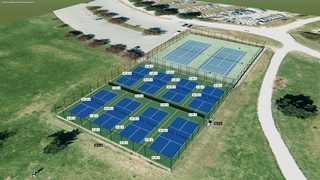
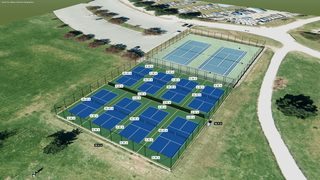
3d: the space between the two rows is measured to the middle fence: 8.2 ft from each baseline back to the fence
Claude-Session: https://claude.ai/code/session_01XZrTSL3wJyeVVwxpMARMFP

diff --git a/public/3d/index.html b/public/3d/index.html
@@ -504,12 +504,12 @@ xs.push(PAD_W / 2); zs.push(PAD_L / 2);
 const chunkW = courts.map((c) => label('', new THREE.Vector3(c.x, TOP, c.z > 0 ? PAD_L / 2 - 1 : -PAD_L / 2 + 1), { court: true }));
 const chunkL = courts.map((c) => label('', new THREE.Vector3(c.x - BAY_W / 2 + 1, TOP, c.z), { court: true }));
 // the spacing between neighbouring courts: sideline to sideline across each row (toward the outer fence, clear of the
-// chunk labels), and baseline to baseline between the two rows (down each column)
+// chunk labels), and from each row's baseline back to the middle fence (down each column)
 for (let r = 0; r < ROWS; r++) for (let c = 0; c < COLS - 1; c++) {
   const a = courts[r * COLS + c], b = courts[r * COLS + c + 1];
   chain('x', [a.x + CW / 2, b.x - CW / 2], a.z + Math.sign(a.z) * 4.5, { court: true, prio: 0 });
 }
-for (let c = 0; c < COLS; c++) chain('z', [courts[c].z + CL / 2, courts[COLS + c].z - CL / 2], courts[c].x, { court: true, prio: 0 });
+for (let c = 0; c < COLS; c++) chain('z', [courts[c].z + CL / 2, 0, courts[COLS + c].z - CL / 2], courts[c].x, { court: true, prio: 0 });
 // the whole place
 chain('x', [-PAD_W / 2, PAD_W / 2], PAD_L / 2 + 2.6, { cls: 'total' });
 chain('z', [-PAD_L / 2, PAD_L / 2], PAD_W / 2 + 2.6, { cls: 'total' });
